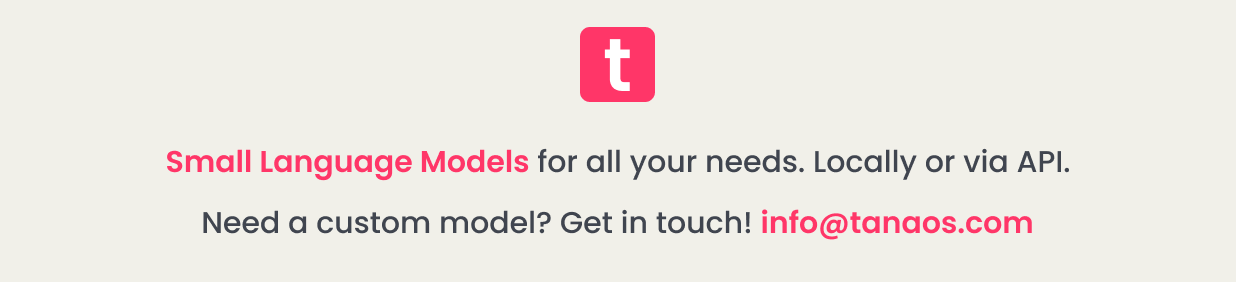
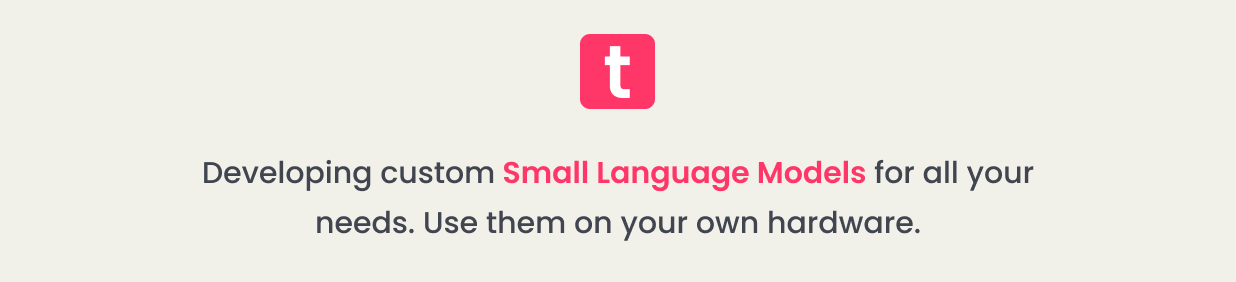
update README.md

diff --git a/profile/README.md b/profile/README.md
@@ -4,17 +4,21 @@
 
 <p align="center">
     <strong>
-        <a href="mailto:info@tanaos.com">info@tanaos.com</a> | <a href="https://tanaos.com">Website</a> | <a href="https://colab.research.google.com/github/tanaos/tanaos-docs/blob/master/blueprints/tanaos-api/tanaos-api-tutorial.ipynb">API</a>
+        <a href="https://tanaos.com/#try-it-out">Create Your Own Model</a> | <a href="https://tanaos.com">Website</a> | <a href="https://colab.research.google.com/github/tanaos/tanaos-docs/blob/master/blueprints/tanaos-api/tanaos-api-tutorial.ipynb">API</a>
     </strong>
 </p>
 
-At Tanaos we develop **task-specific Small Language Models** for various text processing tasks. While many of our models are publicly available, we also build custom models for our users and clients to meet their specific needs. All models can be used both via API and on your local machine.
+## What we do
 
-If you are interested in learning more about our custom model development services, or if you have any questions at all, don't hesitate to reach out to us at info@tanaos.com.
+At Tanaos we develop custom **task-specific Small Language Models** for any text processing tasks. While many of our models are publicly available, we also build custom models for our users and clients to meet their specific needs.
 
-The table below lists our publicly available models along with links to several ways to use them. For ease of use and maximum performance, **we recommend using them through the [Tanaos API](https://colab.research.google.com/github/tanaos/tanaos-docs/blob/master/blueprints/tanaos-api/tanaos-api-tutorial.ipynb)**. Get a free API key by signing up on [our platform](https://platform.tanaos.com).
+## Create your custom model now
 
-If you'd rather use the models on your own metal, download them from our [Hugging Face page](https://huggingface.co/tanaos).
+Create your own custom model for free now! No data required, simply tell us what you need and we'll take care of the rest: https://tanaos.com/#try-it-out
+
+## Publicly available models
+
+Curious to see what models we have built so far? Check out the list of our publicly available models below, and click on the links to see code examples and try them out for yourself!
 
 | Model | Description | API | Artifex | HuggingFace |
 |-------|-------------|-----|---------|-------------|
